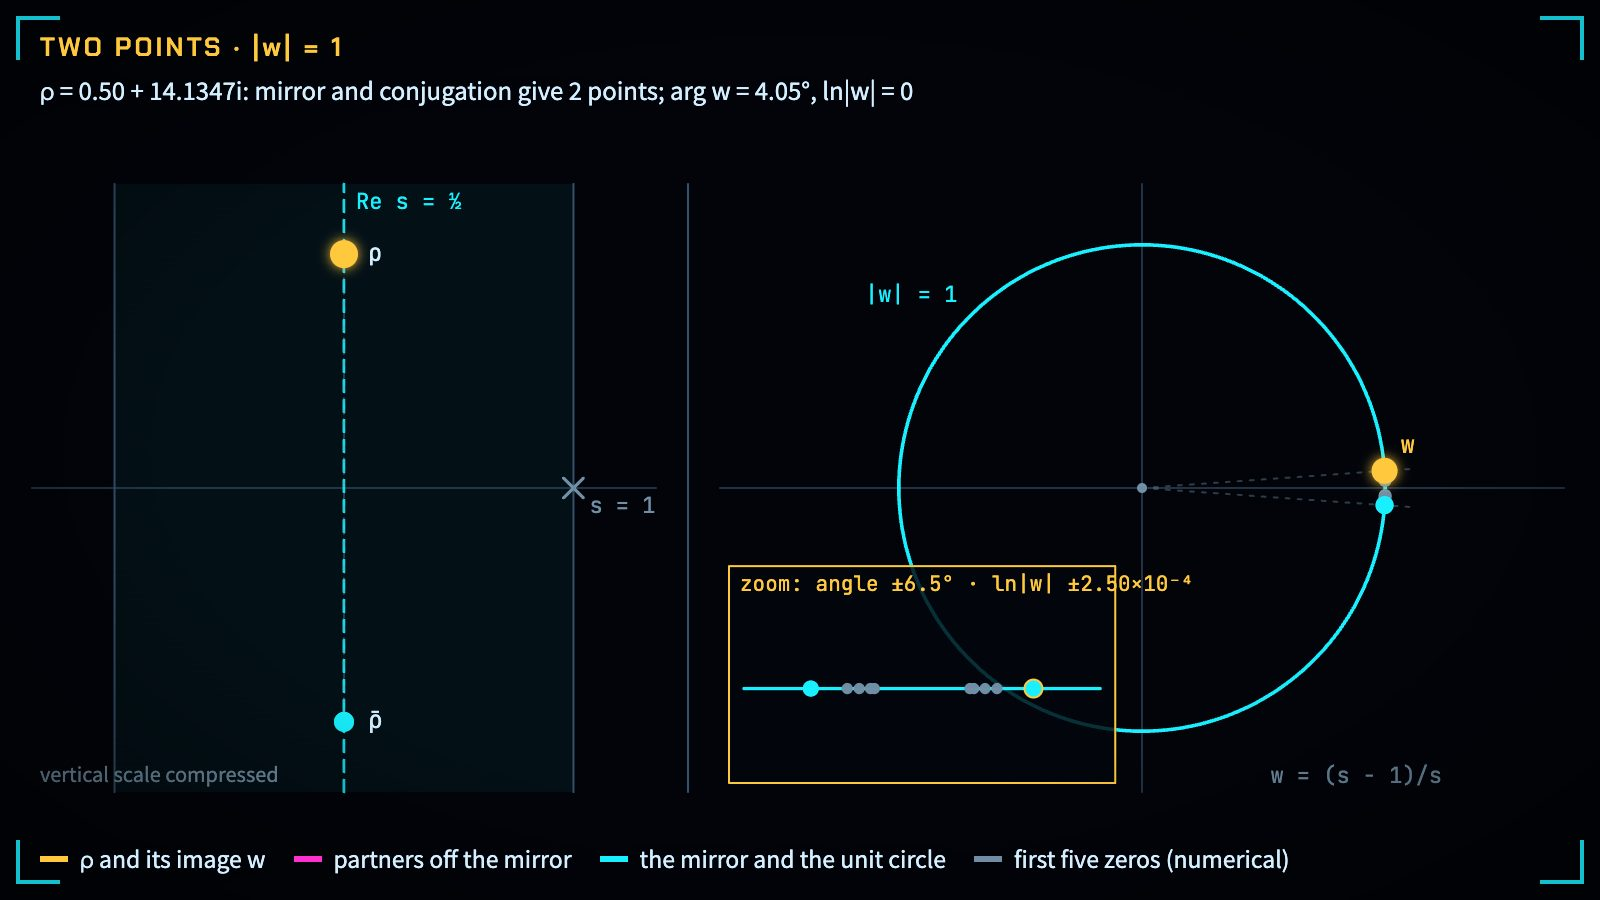
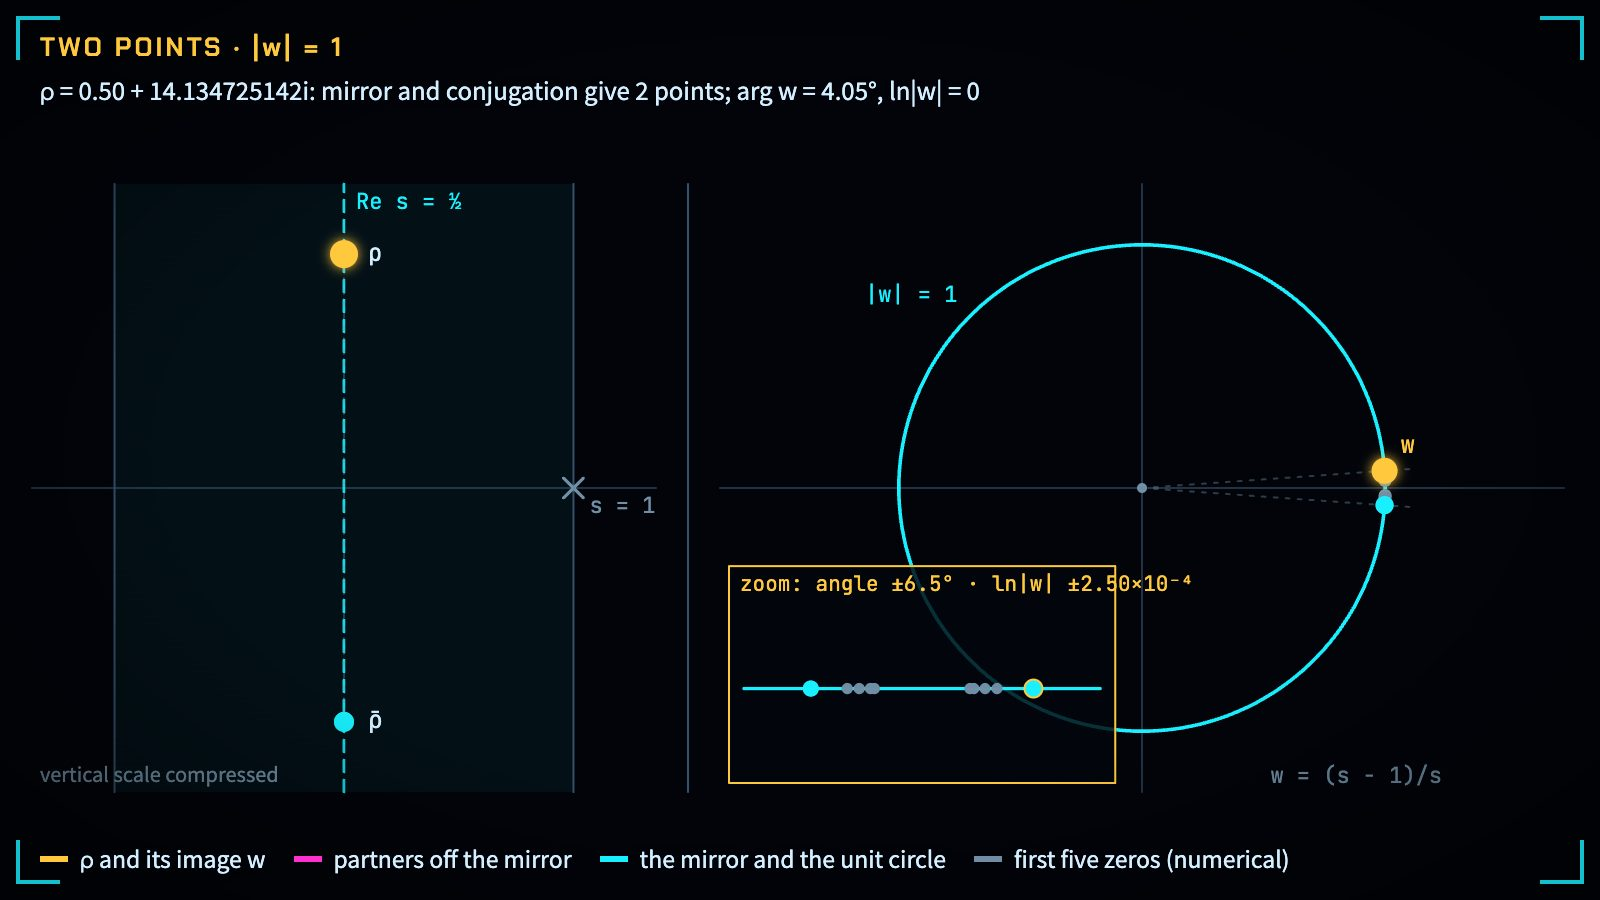
Preserve gamma precision across mirror controls and readouts

Changed region(s): [[0.1562, 0.0933, 0.625, 0.1244]]

diff --git a/books/quantum-geometry/viz/critical-mirror/main.js b/books/quantum-geometry/viz/critical-mirror/main.js
@@ -12,6 +12,12 @@
   const $ = (id) => document.getElementById(id);
   const DMAX = 0.45, RAIL = 45;                       // the rail runs δ from 0.45 down to 0 in steps of 0.01
   const GMIN = 0.3, GMAX = 40;                        // the heights γ that dragging, the slider and its readout share
+  /** γ as text, never claiming another value: the digits of γ (its shortest decimal), padded to at least `min` places;
+      past `max` places the digits shown are cut and an ellipsis marks that more follow. */
+  const gText = (v, min, max = 9) => {
+    const [i, f = ''] = String(v).split('.');
+    return f.length <= max ? `${i}.${f.padEnd(min, '0')}` : `${i}.${f.slice(0, max)}…`;
+  };
   const S = { scene: 'mirror', side: 1, gamma: 2 };
   const delta = () => Math.max(0, (RAIL - clock.t) / 100);
   const railOf = (d) => RAIL - 100 * d;
@@ -177,10 +183,10 @@
     const d = delta(), w = O[0].w, n = distinct(O);
     if (S.scene === 'mirror') {
       $('hudBig').textContent = d > 1e-9 ? L(`四个点 · |w| = ${cabs(w).toFixed(6)}`, `FOUR POINTS · |w| = ${cabs(w).toFixed(6)}`) : L(`两个点 · |w| = 1`, `TWO POINTS · |w| = 1`);
-      $('hudSub').textContent = L(`ρ = ${fix(O[0].s.re, 2)} + ${fix(S.gamma, 4)}i：镜像与共轭给出 ${n} 个点；w 的辐角 ${fix(Math.atan2(w.im, w.re) * 180 / Math.PI, 2)}°，ln|w| = ${sci(Math.log(cabs(w)))}`,
-        `ρ = ${fix(O[0].s.re, 2)} + ${fix(S.gamma, 4)}i: mirror and conjugation give ${n} points; arg w = ${fix(Math.atan2(w.im, w.re) * 180 / Math.PI, 2)}°, ln|w| = ${sci(Math.log(cabs(w)))}`);
+      $('hudSub').textContent = L(`ρ = ${fix(O[0].s.re, 2)} + ${gText(S.gamma, 4)}i：镜像与共轭给出 ${n} 个点；w 的辐角 ${fix(Math.atan2(w.im, w.re) * 180 / Math.PI, 2)}°，ln|w| = ${sci(Math.log(cabs(w)))}`,
+        `ρ = ${fix(O[0].s.re, 2)} + ${gText(S.gamma, 4)}i: mirror and conjugation give ${n} points; arg w = ${fix(Math.atan2(w.im, w.re) * 180 / Math.PI, 2)}°, ln|w| = ${sci(Math.log(cabs(w)))}`);
     } else {
-      const fmin = quarticMin(d, S.gamma).f, gs = fix(S.gamma, 2);
+      const fmin = quarticMin(d, S.gamma).f, gs = gText(S.gamma, 2);
       $('hudBig').textContent = L(`伪造的四点组 · F 在线上最低 ${fmtF(fmin)}`, `MOCK QUARTET · F ON THE LINE AT LEAST ${fmtF(fmin)}`);
       // δ = 0 is on the rail: there the zeros are ½ ± iγ, each double, and F = (γ² − t²)² touches 0 at t = ±γ
       $('hudSub').textContent = d > 1e-9
@@ -205,7 +211,7 @@
     const d = delta(), O = orbit(d, S.side, S.gamma), w = O[0].w, n = distinct(O);
     $('roKey').textContent = n === 4 ? L('四个点', 'four points') : L('两个点', 'two points');
     $('roKeySub').textContent = n === 4 ? 'ρ, ρ̄, 1 − ρ, 1 − ρ̄' : L('Re ρ = ½：ρ = 1 − ρ̄', 'Re ρ = ½: ρ = 1 − ρ̄');
-    $('ro1').textContent = `${fix(O[0].s.re, 2)} + ${fix(S.gamma, 4)}i`;
+    $('ro1').textContent = `${fix(O[0].s.re, 2)} + ${gText(S.gamma, 4)}i`;
     $('ro2').textContent = cabs(w).toFixed(6);
     $('ro3').textContent = sci(Math.log(cabs(w)));
     $('ro4').textContent = (cabs(O[0].w) * cabs(O[3].w)).toFixed(9);
@@ -224,10 +230,30 @@
     onChange: () => paint()
   });
   const sceneChips = kit.chips($('sceneChips'), 'scene', (v) => { cards.mark(null); S.scene = v; paint(); });
-  const fGamma = kit.field($('gamma'), { fmt: (v) => fix(v, 2), onInput: (v) => { cards.mark(null); S.gamma = v; paint(); } });
-  /** Move ρ to height v: the state and the slider take the same legal value, on the slider's grid of 0.01 inside
-      [GMIN, GMAX]. A card may keep a finer height (the first zero's), which the slider and its readout show to 0.01. */
-  const setGamma = (v, exact) => { S.gamma = exact ? v : Math.min(GMAX, Math.max(GMIN, Math.round(v * 100) / 100)); fGamma.set(S.gamma); };
+  /* γ has one value, held by the slider itself: S.gamma is only ever read back from the slider after a write, so the
+     state, the slider and its readout cannot disagree. The slider steps by 0.01 for its own keys and pointer; a height
+     between those steps (a drag of ρ, the first zero's card) is kept as it is, with the step lifted while it is shown.
+     Touching the slider puts the step back first, so its keys and pointer move on the 0.01 grid as before. */
+  const gIn = $('gamma'), GSTEP = gIn.getAttribute('step');
+  const fGamma = kit.field(gIn, { fmt: (v) => gText(v, 2), onInput: (v) => { cards.mark(null); setGamma(v); paint(); } });
+  /** Move ρ to height v, held inside [GMIN, GMAX]; the slider's own reading of it becomes the state. */
+  function setGamma(v) {
+    if (!Number.isFinite(v)) return;
+    gIn.step = 'any'; gIn.value = String(Math.min(GMAX, Math.max(GMIN, v)));
+    const x = parseFloat(gIn.value);   // the slider's own reading of the height
+    gIn.step = GSTEP; gIn.value = String(x);
+    if (parseFloat(gIn.value) !== x) { gIn.step = 'any'; gIn.value = String(x); }
+    S.gamma = parseFloat(gIn.value); fGamma.show();
+  }
+  const SLIDER_KEYS = new Set(['ArrowLeft', 'ArrowRight', 'ArrowUp', 'ArrowDown', 'PageUp', 'PageDown', 'Home', 'End']);
+  const gridSlider = () => {
+    if (gIn.step === GSTEP) return;
+    gIn.step = GSTEP;   // the slider rounds its value to the 0.01 grid; the state follows it
+    const v = parseFloat(gIn.value);
+    if (v !== S.gamma) { cards.mark(null); S.gamma = v; fGamma.show(); paint(); }
+  };
+  gIn.addEventListener('keydown', (ev) => { if (SLIDER_KEYS.has(ev.key)) gridSlider(); });
+  gIn.addEventListener('pointerdown', gridSlider);
   $('rew').addEventListener('click', () => { clock.pause(); clock.set(0); });
   // drag ρ in the s plane
   let dragging = false;
@@ -269,7 +295,7 @@
   let booting = true;
   function applyPreset(id) {
     const p = PRESETS[id];
-    clock.pause(); S.scene = p.scene; sceneChips.set(p.scene, true); S.side = p.side || 1; setGamma(p.gamma, true);
+    clock.pause(); S.scene = p.scene; sceneChips.set(p.scene, true); S.side = p.side || 1; setGamma(p.gamma);
     clock.set(railOf(p.d));
     if (TRV.still || (booting && !TRV.embed) || !p.play) { paint(); return; }
     if (booting) kit.autoplay(clock, $('stage')); else clock.play();

diff --git a/docs/project/CONTENT-ACCURACY-CH21-CH22-20261113.md b/docs/project/CONTENT-ACCURACY-CH21-CH22-20261113.md
@@ -54,3 +54,22 @@
 本批结果是可审查补丁与实际证据；M22-02 和原始索引保全仍不满足要求，不能声明五项全部完成、首次审查通过或当前两单元／44 单元批准。
 
 证据根为 `/tmp/qg-current-ch21-ch22-repair-20261113/implementation/`。`before.json`／`after.json`、`patch-preservation.json`、`exact-pin-source-manifest.json`、`selected-prior-nonopaque-manifest.json`、`actual-current-output-manifest.json` 和 `selected-nonopaque-evidence-manifest.json` 记录精确来源、源保全偏差、受影响数学及当前产物；原审读输入清单保持不可变。首次强制 R1、未完成 M22-02 的后续裁决、原始索引偏差处置以及 Git／CI／合入／Pages 仍由调用方办理。
+
+
+## PR220 首次 R1 后：M22-02 精度修订与当前证据
+
+本节追加于上述历史记录之后，不改写先前失败。调用方已明确结算首次三席 R1，三席均以原连续指针域／精确预设的状态、原生控件及读数不一致拒绝；其余四项有限纠正得到原范围内支持。本次输入为 `0010e2d9936fc3b3b54c8622ab348edb8a84bd5f`，已整合 main `702efb8d`；当前 pin 为 `3b3ab5883295803c705670de0d118219db346f94/dev`、489 条声明。只实施这一已确认家族，不重开全文审计，也不增加单元批准。
+
+生产器保留 γ 的原支持区间 `[.3,40]`。舞台指针与预设写入时解除滑块的百分位步长约束，再以原生滑块实际序列化的值作为共同状态；操作滑块本身时先恢复原 `.01` 步长，由原生键盘／指针行为继续取值。首零点预设仍精确为 `14.134725142`，状态、滑块、输出、ρ 读数及 HUD 对应；普通指针不再被取为 `.31`。长读数截取的是实际值的十进制前缀，并显式加 `…`，不把另一个已舍入值写成所选值。绘图直接使用该共同状态。原生 range 本身仍有浏览器序列化精度：本机约十四位有效数字，指针映射 `.3141592823685695` 对应共同值约 `.31415928236857`；这是披露的原生精度边界，不称任意实数或任意浏览器的无限精度实现。
+
+检查从现有生产路径列出舞台按下／拖动、原生滑块、键盘、卡片／导览／URL 预设及封面复位；时间轴、播放、复位与场景切换保留 γ。状态等于原生值、读数等于该值或显式前缀省略的源不变量覆盖原域；有限样本只作可证伪的支持，不把新百分位网格当成定义域。现有套件删除容许 CAYLEY 差异的断言，在两语实际记录离网格指针并由绘图区参考点独立换算；保留默认最小值 49、`γ=.3, δ=.45` 的 `.08555625`、两支受约束最小值及 δ=0 端点。当前普通与 `VIZ_SLOW_FRAMES=1000` 两次新执行均为 **150/150**，未观察到页面／控制台／请求错误。媒体交接另保留新套件对原生产器 **137/150、13 项预期失败**；其初次自检因桌面隐藏导览按钮等待超时的失败也保留，不读诊断正文重建决策。
+
+媒体通过本次唯一全新直接命令行执行，宿主前台子进程终态为 0。只改 `critical-mirror/main.js`、既有测试及两语 `fig-cayley` JPEG；`index.html`、本地样式、封面与其他六张卡图均保持原字节（原生产器重出后对应）。标准七个视图、另八个离网格／精确预设视图及手机裁片已查看。96 项明确章节／pin／运行时／工具依赖无变化，原四项纠正、正文题记、形式块、证明及媒体顺序保持；引用先前证据仍只归其原输入和闭包，不声称新内容批准。现有本地校对 skill 只在控件域段落补充原生值、离网格／精细预设和显式近似的核对，`quick_validate.py` 通过。
+
+当前 `./tbook check` 为 **0 错误／9 条既有警告**（一条未引用图、八条影片历史制作提交）。在显式追踪源检查副本执行 `./tbook build html pdf epub site --book quantum-geometry`：两语 HTML 与 site 成功，但整条命令退出 1；当前配置的六 PDF 均因缺 `typst` 模块失败，两 EPUB 也在依赖同一模块的封面生成处失败，`epubcheck` 同样未安装。因此没有本次当前 PDF／EPUB、EPUBCheck 或其阅读尺度像素通过；历史六 PDF／两 EPUB 仍保持历史归属。站点两语封面退回既有 CSS 卡，十部整片明确跳过；标准 site 路由自动构建了既有演示文稿，不增加媒体审读范围。
+
+通过 `./tbook serve` 查看当前两语书页的 1440／390px、coal／light 八种组合中的 CAYLEY／QUARTIC，以及两语桌面／手机实际完整实验室；20 项受影响消费者断言通过、0 KaTeX 错误、横向溢出测量均 0，本轮未观察到页面错误。14 项实际站点／暂存静帧对应全部成立，站点 HTML 只经标准固定依据链接转换。静帧已查看，但暂存 JPEG 不等于失败导出的阅读验收。英文手机书内 HUD／场景按钮、说明与图例仍拥挤／覆盖，长 ρ 读数换行；实验室维持夜间配色。此前负半径执行失败、EPUB 手机溢出、原生 Books／iOS、跨浏览器、字体／分页、共享 HUD／strip／捕获及影片／音频限制均不因这次局部通过而关闭。私有输出对应器首次错误地假定卡图与站点实时脚本同目录，文件缺失后改按真实暂存消费者核对；这属于检查器失败，产品未为其更改。
+
[1 lines of base64/hex data omitted]
+
+本次 post-R1 有限 assignment 总 1／已用 1／剩余 0，直接媒体调用上限 1／已用 1；初次实施 1／1 已用仍保留，最终全书输出保留 1 未使用，无新增或重置全局轮次上限。补丁与检查证据交回调用方：当前 PDF／EPUB 输出及实际阅读尚缺；mandatory R2+ 三席（2 CLI＋1 隔离）、最终候选对应、Git／PR／CI／合入／Pages 仍由调用方负责。不声明独立审查通过、M22-02 已被批准、整单元或整书满足目标。

diff --git a/skills/local-content-accuracy/SKILL.md b/skills/local-content-accuracy/SKILL.md
@@ -20,7 +20,7 @@ For a full audit, apply all steps to each requested unit. For a bounded repair, 
 3. Independently recompute material numerical claims and inspect literature attribution, physical protocol assumptions, and epistemic level. Separate Lean results, literature results, author interpretation, and open questions. Record unresolved provenance as a limitation instead of silently strengthening the text.
    For quantitative claims, trace the stated bound or behavior across the actual supported control domain and every existing reader-facing consumer; do not infer the mathematical domain from a preset, display range, or a severely truncated example.
 
-When reviewing interactive controls, treat combinations of controls and selector precedence as part of the supported domain: a preset can set several controls, and later reader changes can override one while leaving the others in force. If a lock or intake excerpt shows a truncated declaration signature, compare it with the complete exact-pin declaration before changing a correct assertion.
+When reviewing interactive controls, treat combinations of controls and selector precedence as part of the supported domain: a preset can set several controls, and later reader changes can override one while leaving the others in force. For precision-sensitive inputs, derive the domain from the actual pointer, native-control, keyboard and preset paths; check state, native value and visible readouts with off-grid pointer values and finer presets. A widget's step or rounded display does not narrow that domain or establish agreement; distinguish any displayed approximation from the selected value. If a lock or intake excerpt shows a truncated declaration signature, compare it with the complete exact-pin declaration before changing a correct assertion.
 4. Classify findings as confirmed, advisory, or discarded. Fix only confirmed inaccuracies and necessary bilingual mismatches. Edit Chinese first, then make the English accurate and idiomatic. Keep chapter order, stable IDs, GIDs, media order, and proof-boundary conventions unchanged.
 5. Run the smallest meaningful checks while iterating, then validate the completed patch. At minimum use `./tbook check`; for output changes build the affected HTML/PDF/EPUB/site targets, run EPUBCheck, validate changed SVG/XML, and inspect relevant desktop/mobile and theme combinations. Changed labs also need the current project’s browser tests, visual inspection and refreshed cited stills. Record actual failures and limits. Identify evidence by input HEAD plus changed paths/digests when uncommitted, or by committed candidate when available.
 6. Obtain the project’s independent architecture, quality and tests reviews through the designated review owner. An implementation handoff records review as pending when the caller owns orchestration. Every blocking finding must be closed, and approval must cover the candidate’s final relevant inputs; earlier approval is reusable only within the documented unchanged dependency boundary.
